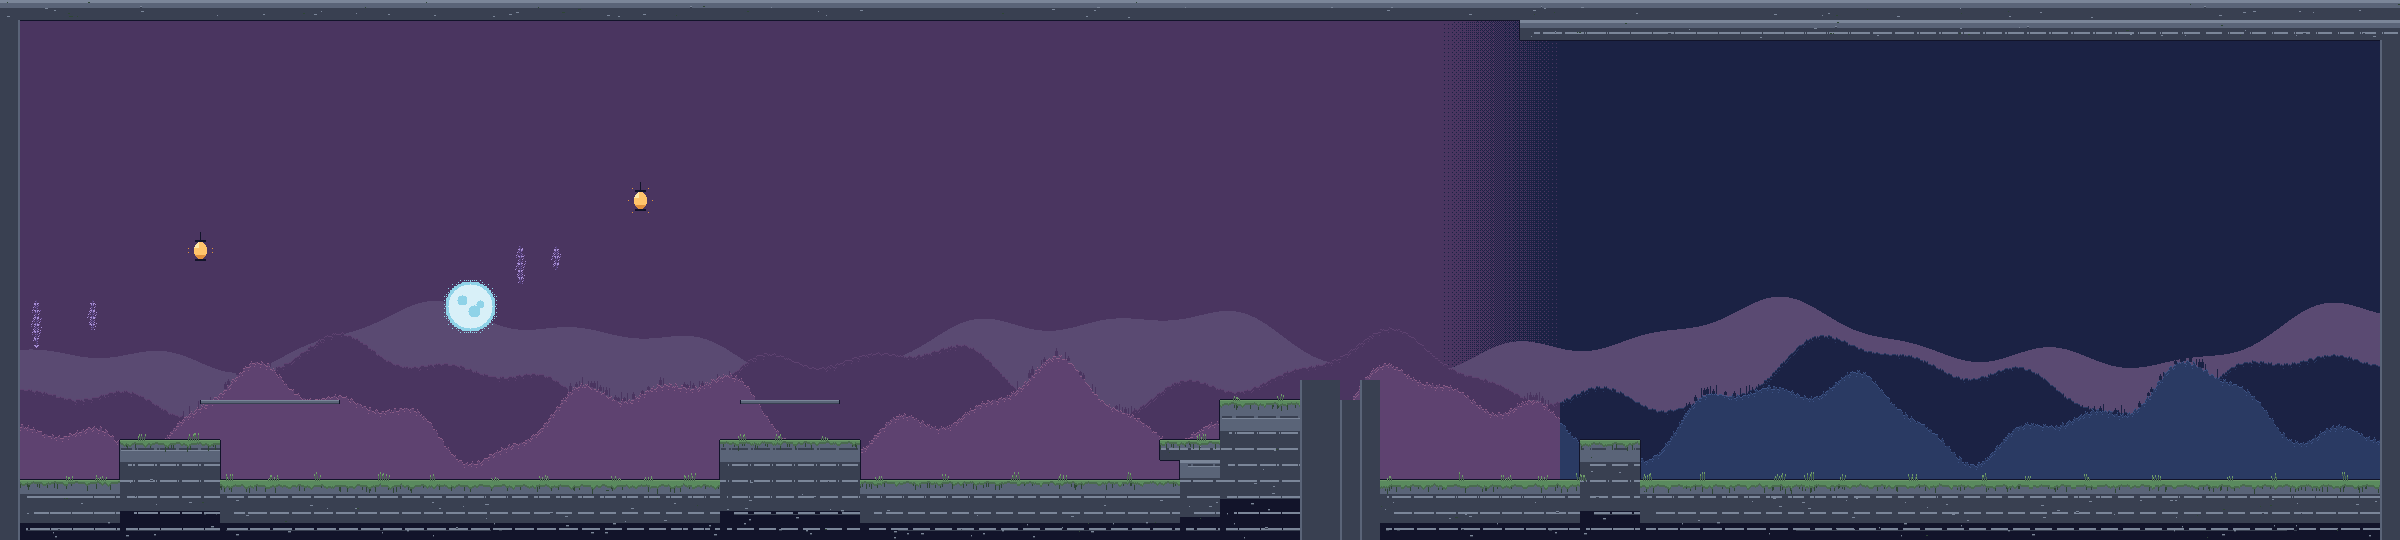
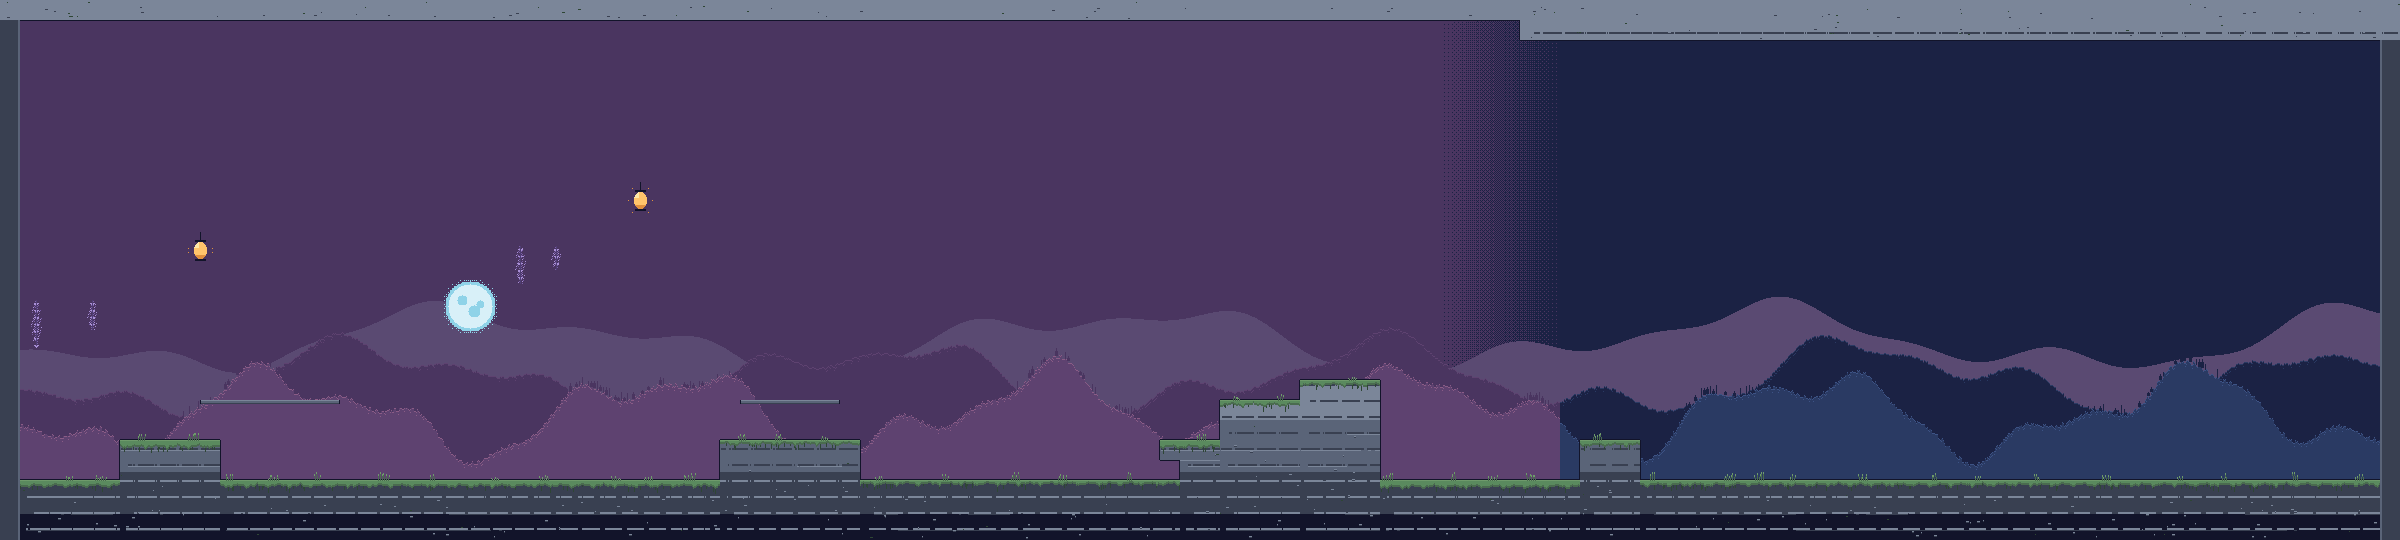
fix(art): 明暗改回绝对世界坐标, 修实体挖地形凹口

diff --git a/tools/make_scene_art.py b/tools/make_scene_art.py
@@ -545,23 +545,38 @@ def _draw_solid(px, rng, x, y, w, h, solids):
         # 这样不管地形在什么高度，它的立面都有"顶亮→中→暗→底弧"的纵深感，
         # 而且同一块地形内部是渐变的，不会出现横向断层
         #（因为相邻地块顶面高度不同时，交界处本来就是不同的立面）。
-        local = yy - y
-        # **立面要有 4 档而不是 3 档**。
-        # 原来写成 stone_hi → stone → stone_dk → ink，
-        # 但 stone_dk 到 ink 的跨度太大，立面下半直接黑掉，
-        # 台阶看起来像"半截浸在阴影里"。改成：
-        #   顶面亮 → 上部 stone → 中部 stone_dk → 底部再压一档（不用纯 ink）
-        band = max(8.0, h * 0.22)
-        if local < 3:
-            return hx("stone_hi")          # 顶面受光边
-        elif local < band:
-            return hx("stone")             # 上部立面
-        elif local < band * 2.0:
-            return hx("stone_dk")          # 中部
-        elif local < band * 3.2:
-            return hx("stone_dk")          # 下部（同色，靠岩层线区分）
+        # **必须按绝对世界 y 分档，不能按"离本地形顶面的深度"。**
+        #
+        # 这两轮踩的坑正好相反，记下来避免再来一次：
+        #
+        #   第一版：按"离地面顶(GROUND_Y)的深度"，但只给了 4 个很粗的
+        #           阈值 —— 高于地面的高台整体落进最亮一档，
+        #           内部一片均匀，用户说"往上垫了上面全是空的"。
+        #
+        #   第二版：改成"离本地形顶面的深度" —— 高台有了渐变，
+        #           但**相邻两块地形顶面高度不同时，同一个世界 y
+        #           会算出不同颜色**，横向并排立刻出现明暗分界，
+        #           用户说"过渡又不自然了"。
+        #
+        # 正解：**分档依据必须是绝对的、与"这块地形多高"无关的量**，
+        # 这样同一世界 y 永远是同一颜色，横向不可能出现分界；
+        # 同时把档位做**足够细**，高台因为自身跨了 100~160px，
+        # 自然会跨过好几档，内部也就有了层次。
+        #
+        # 档位（以地面顶 GROUND_Y=480 为 0，向上为负）：
+        #   d < -60  最亮（高台顶部/近光面）
+        #   d < -8   亮
+        #   d < 34   中
+        #   d >= 34  暗（画面底部）
+        d = yy - GROUND_Y
+        if d < -60:
+            return hx("stone_hi")
+        elif d < -8:
+            return hx("stone")
+        elif d < 34:
+            return hx("stone_dk")
         else:
-            return hx("ink")               # 最底只有一点点暗弧
+            return hx("ink")
 
     for yy in range(y, y + h):
         col = _strata_color(yy)

diff --git a/tools/gen_level_source.py b/tools/gen_level_source.py
@@ -37,7 +37,14 @@ def put(x, y, ch):
     坑：如果直接写进 grid，后续的 fill() 会把它盖掉。
     实测 BOSS 出生点 B 就是被 BOSS 房的地形 fill 覆盖，整个消失了。
     所以实体先记在 _entities 里，最后一步再统一写。
+
+    **另一个坑**：实体字符占一格，如果写在地形格上，会把那格地形
+    变成空气 —— 台阶顶面因此出现 1 格宽 20px 的凹口
+    （实测 r19 是 `##b#`，b 把台阶挖了个洞，截图上像悬空柱子）。
+    所以这里做个防护：如果该格是实心地形，实体自动上移一格。
     """
+    if 0 <= x < W and 0 <= y < H and grid[y][x] == "#":
+        y -= 1
     _entities.append((x, y, ch))
 
 
@@ -134,8 +141,14 @@ put(58, 23, "b")                     # 会吐毒弹的苔团（落在弹反段 1
 # 而这两格深 60px，掉下去要重新爬，纯粹劝退。
 # 改成每段都向下延伸到地面、且相邻段在水平方向有重叠，
 # 形成"三级台阶"，跳上去不会踩空。
+# 三级台阶：每级都从地面长上去，且**相邻级在水平方向重叠一格**。
+# 第一版写成 58..61 / 61..65 / 65..68，虽然重叠，但生成器按列填充后
+# 出现了"中间低、两边高"的凹槽（顶面 380/400/380），
+# 截图上看起来像一根悬空的柱子。这里改为严格递进：
+#   第1级 58..61 (y=440) → 第2级 61..65 (y=400) → 第3级 65..68 (y=380)
+# 每级的顶面都比左边高，不会出现中间凹。
 fill(58, 22, 61, 24)                 # 第 1 级 顶面 y=440
-fill(61, 20, 65, 24)                 # 第 2 级 顶面 y=400（起点压在上一级上）
+fill(61, 20, 65, 24)                 # 第 2 级 顶面 y=400
 fill(65, 19, 68, 24)                 # 第 3 级 顶面 y=380
 # 第 3 级顶端放苔团 —— 玩家跳上来就要面对它，不是白爬。
 # **必须放在台阶顶面的那一行**（r19 的顶面 = y=400，
